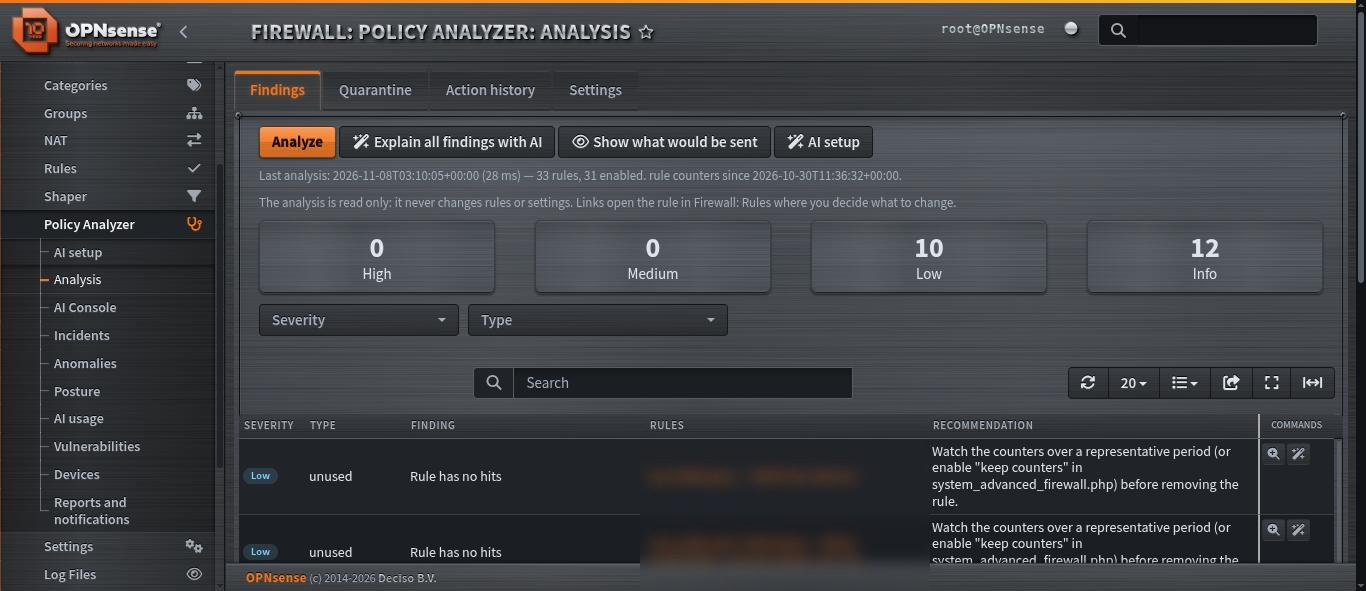
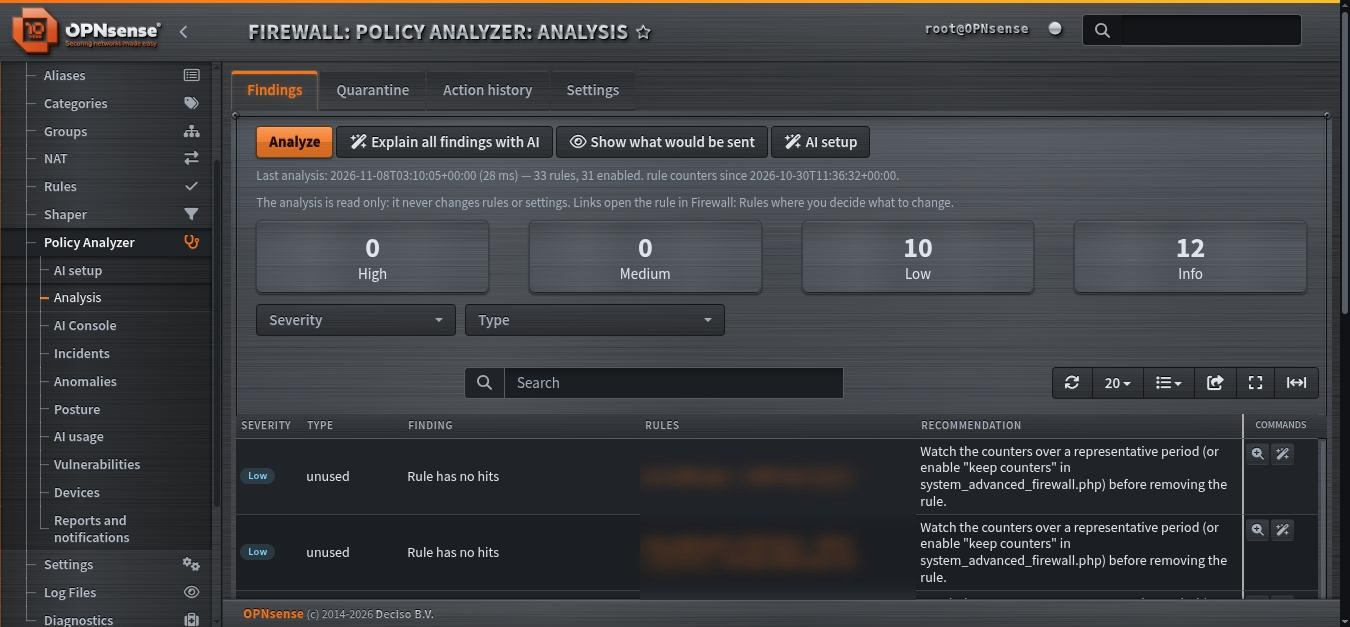
Screenshots with the current theme
The seven page screenshots retaken on OPNsense 26.7.9 with the current
Forja theme (tree menu). Addresses, host, device and rule names are
blurred.

Our community is crucial in shaping the ongoing development of our
open-source OPNsense® software products.

diff --git a/README.md b/README.md
@@ -32,7 +32,7 @@ revert**, recorded in an action history.
 
 ## Screenshots
 
-Taken on my own firewall (OPNsense 26.7.9, Forja theme); addresses, host and device names are blurred.
+Taken on my own firewall (OPNsense 26.7.9, Forja theme); addresses, host, device and rule names are blurred.
 
 | | |
 |---|---|
